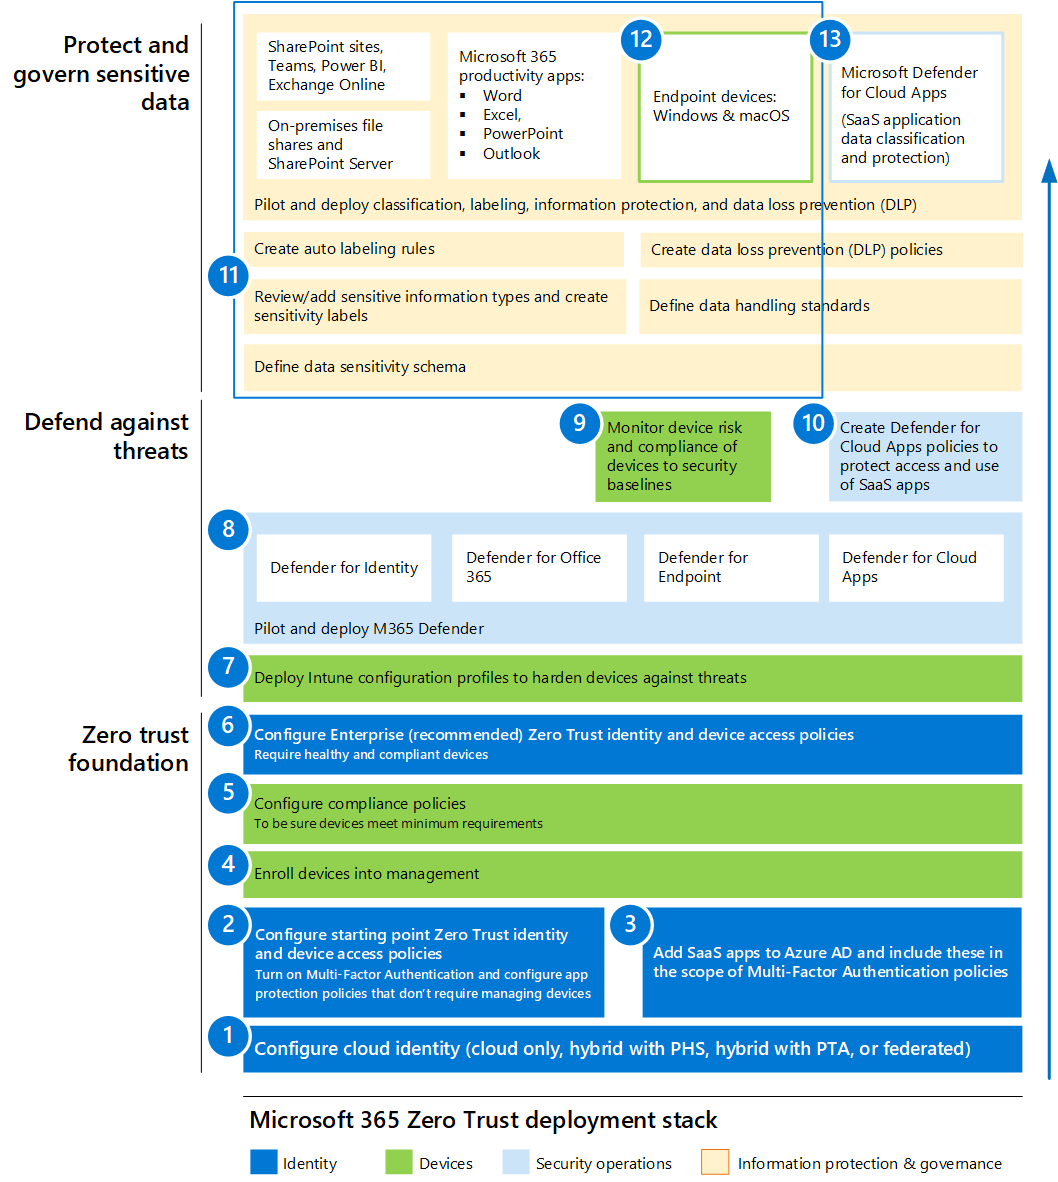
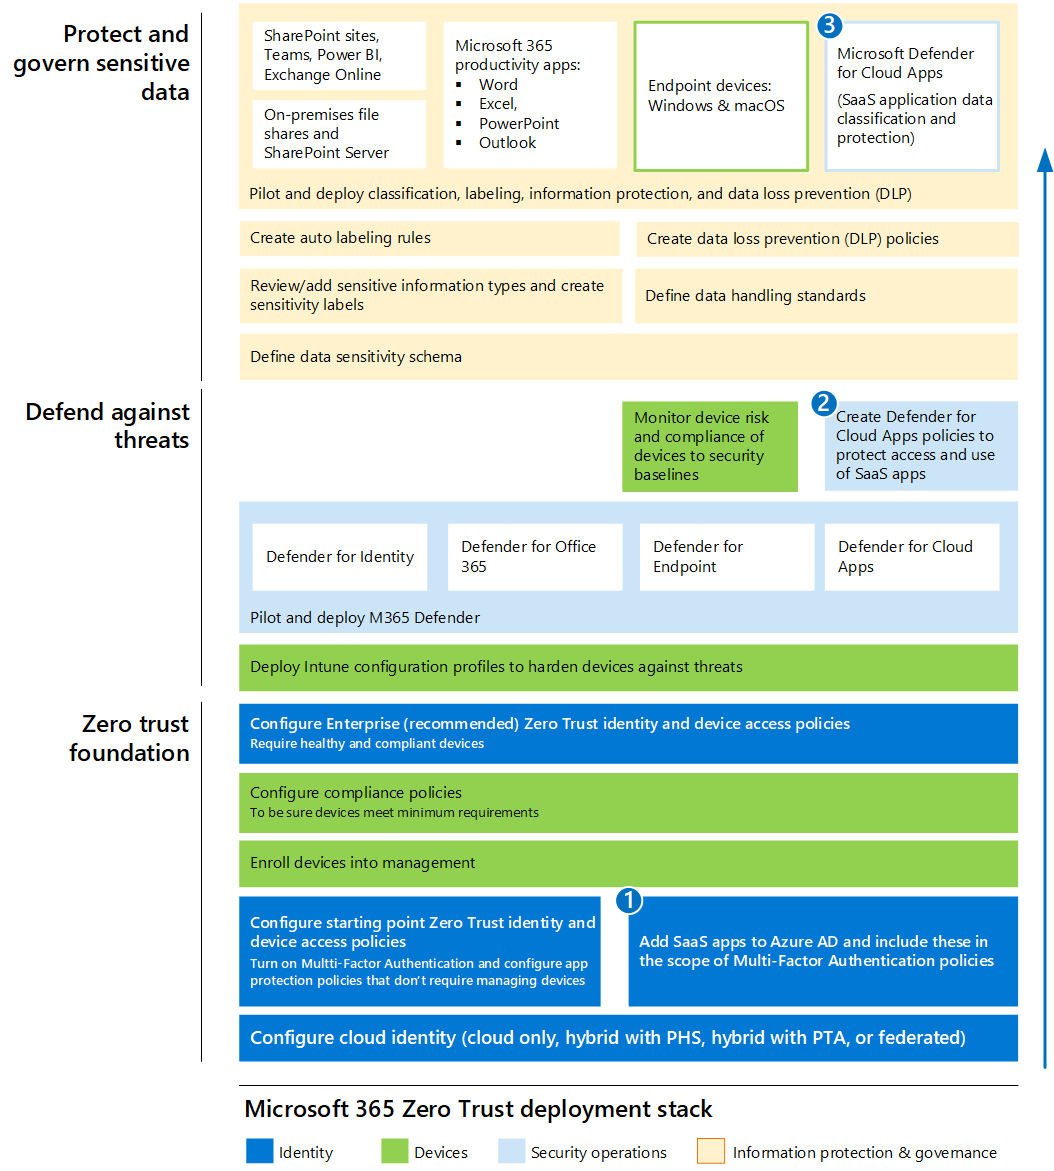
update framing and image

diff --git a/zero-trust/integrate-saas-apps.md b/zero-trust/integrate-saas-apps.md
@@ -10,10 +10,12 @@ ms.topic: conceptual
 
 # Integrate SaaS apps for Zero Trust with Microsoft 365 
 
+The widespread increase in cloud adoption is transforming how organizations achieve business outcomes.  This shift highlights the reliance of organizations on cloud-based apps and consequently, increasing the demand for cloud-based services such as Software as a service (SaaS), Platform as a service (PaaS), Infrastructure as a service (IaaS), and app development platforms. 
 
-The widespread adoption of remote work has created a shift in the way people access corporate resources. This shift highlights the reliance of organizations on cloud-based apps to ensure business continuity. Software-as-a-service (SaaS)  plays a key role in ensuring that applications and resources are available and accessible from any device with an Internet connection.
 
-While SaaS apps can provide this convenience, the large amount of sensitive data and the flexibility it affords users can potentially pose a security risk.  
+While a multi-cloud environment can help organizations reduce operational costs and improve scalability, the large amount of sensitive data and the flexibility it affords organizations can potentially pose a security risk. 
+
+This solution guides you on using Microsoft 365 to help manage your digital estate of cloud apps, with a focus on SaaS. SaaS apps play a key role in ensuring that applications and resources are available and accessible from any device with an Internet connection.
 
 To ensure that access and productivity is secure, implementation of SaaS needs to align with the Zero Trust security model which is based on these guiding principles:
 
@@ -34,7 +36,7 @@ To ensure that access and productivity is secure, implementation of SaaS needs t
 Protecting SaaS apps is a multi-layer process. 
 
 
-The following diagram illustrates building blocks to integrate SaaS apps that aligns with the Zero Trust security model. The elements related to achieving this are numbered 3, 10, and 13. These are the layers of protection device admins will coordinate with other administrators to accomplish.
+The following diagram illustrates building blocks to integrate SaaS apps that aligns with the Zero Trust security model. The elements related to achieving this are numbered 1, 2, and 3. These are the layers of protection device admins will coordinate with other administrators to accomplish.
 
 
 :::image type="content" source="media/saas-zt.png" alt-text="Image of Zero Trust deployment guidance" lightbox="media/saas-zt.png":::
